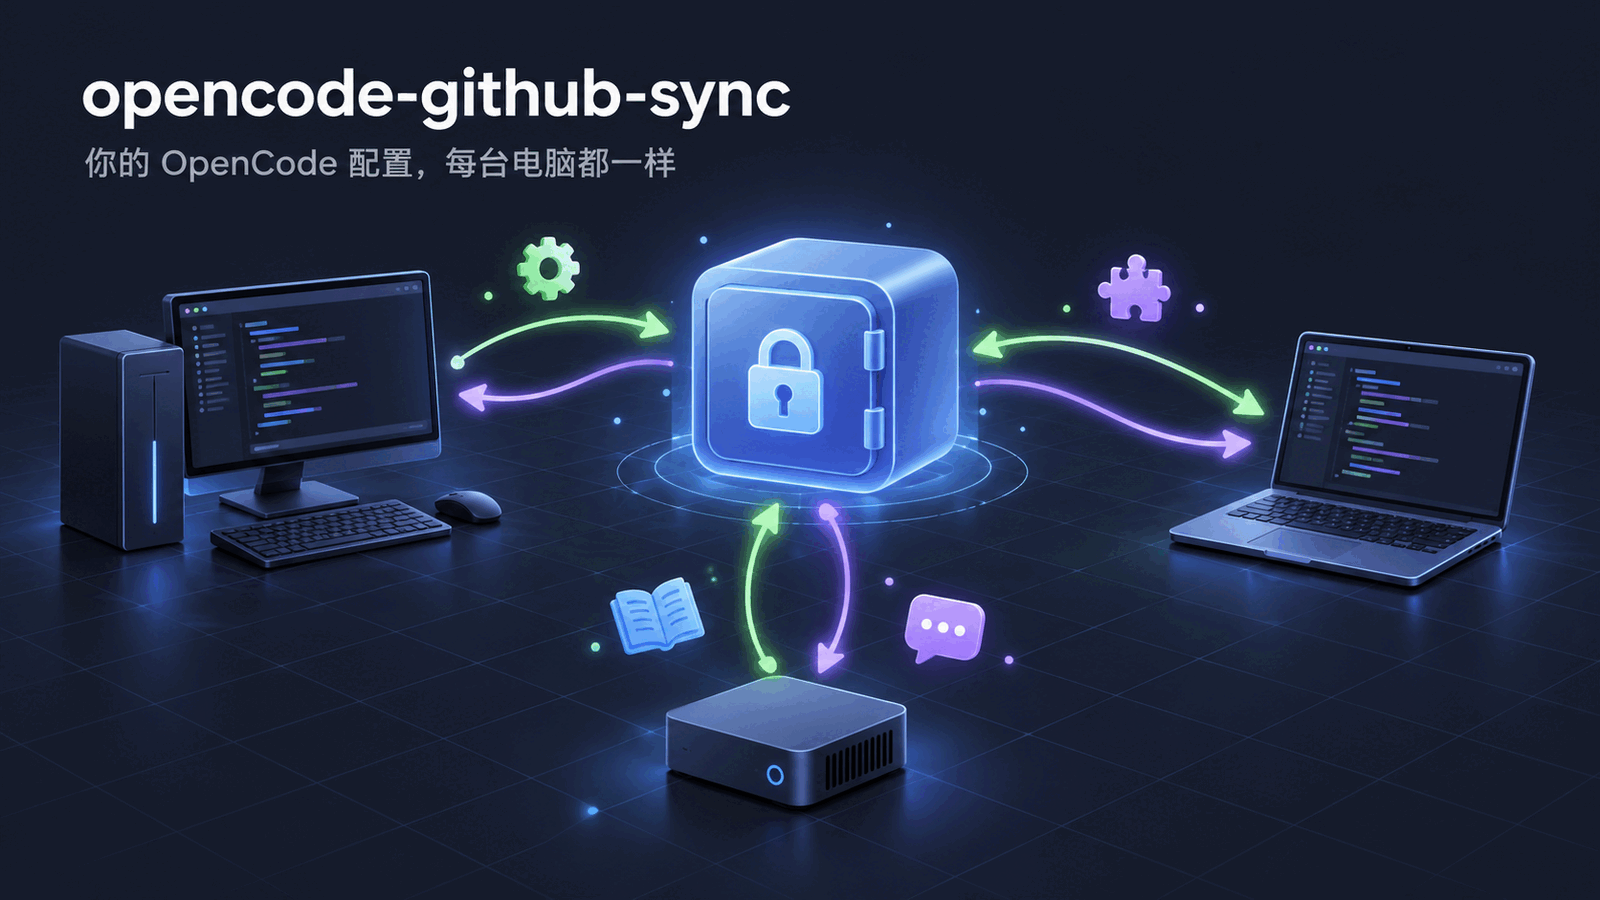
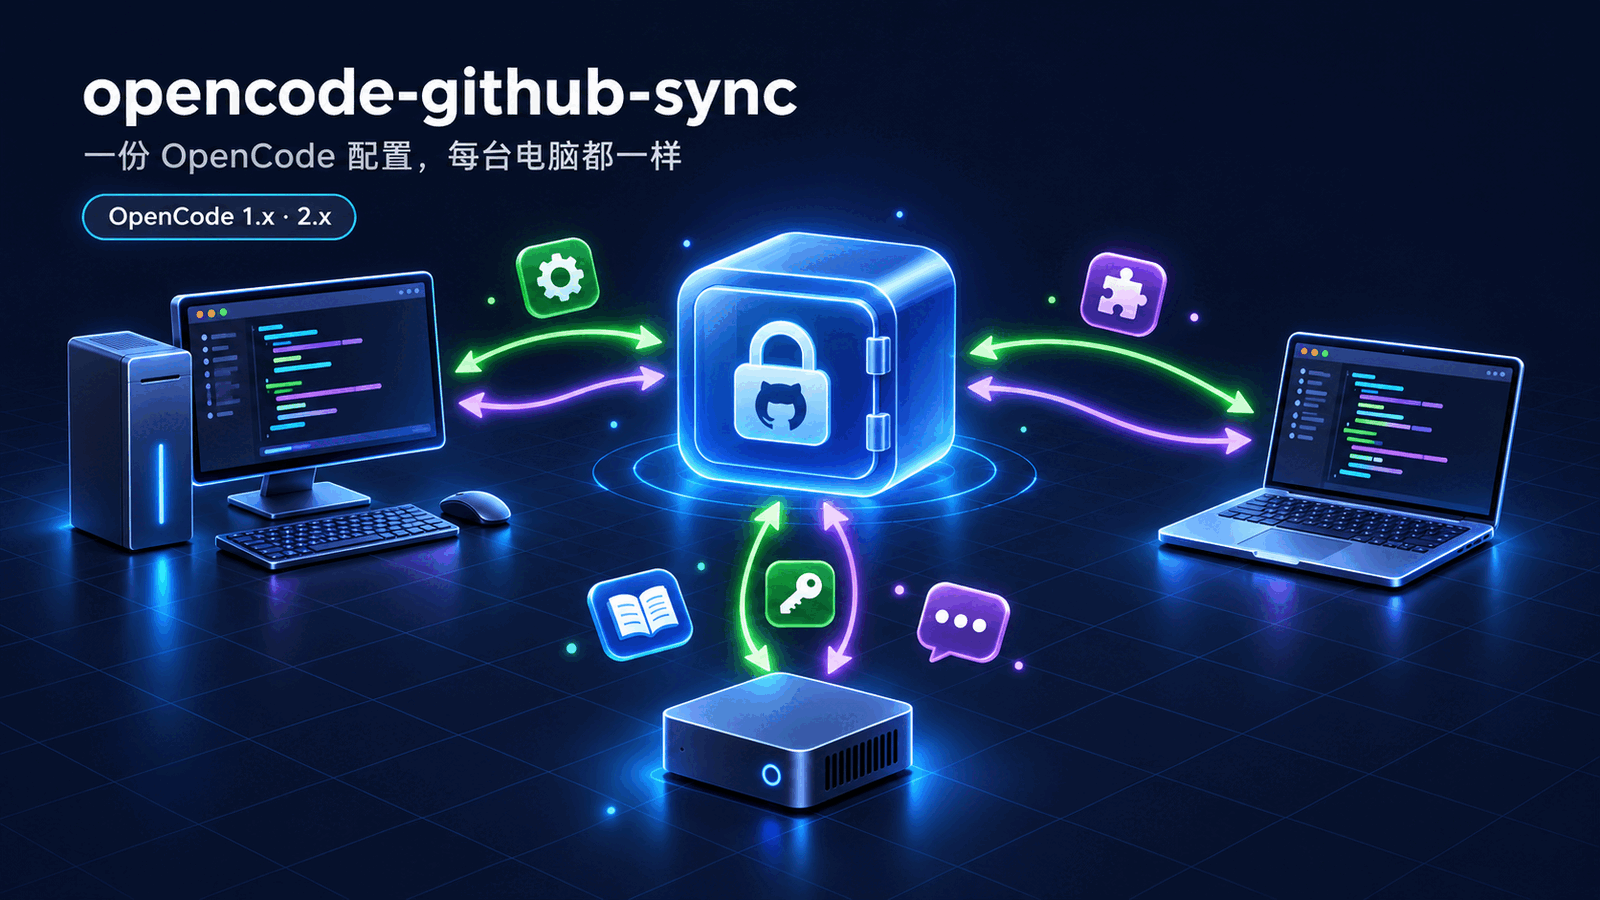
docs: redraw README images, separate language switcher from section links
All ten illustrations (en, zh-CN) redrawn with gpt-image 2.6: OpenCode 1.x/2.x badge on the hero, the what-gets-synced diagram now shows cli.json, opt-in sessions and credentials and what stays local, the autosync timeline shows the ChatGPT login renewal, the safety grid adds machine secrets. The language switcher gets its own line, as in OpenCode and LobeChat, with the section links below it.

Changed region(s): [[0.0, 0.2178, 0.9688, 0.9956], [0.0312, 0.0622, 0.5, 0.28], [0.2812, 0.7156, 0.3125, 0.7467]]

diff --git a/README.md b/README.md
@@ -11,9 +11,15 @@
 </p>
 
 <p align="center">
-  <a href="https://github.com/lazyalex616/opencode-github-sync/blob/main/README.zh-CN.md">简体中文</a>
-  &nbsp;·&nbsp;
+  <b>English</b> · <a href="./README.zh-CN.md">简体中文</a>
+</p>
+
+<p align="center">
   <a href="#install">Install</a>
+  &nbsp;·&nbsp;
+  <a href="#first-run">First run</a>
+  &nbsp;·&nbsp;
+  <a href="#what-gets-synced">What gets synced</a>
   &nbsp;·&nbsp;
   <a href="#opencode-2">OpenCode 2</a>
   &nbsp;·&nbsp;

diff --git a/README.zh-CN.md b/README.zh-CN.md
@@ -11,9 +11,15 @@
 </p>
 
 <p align="center">
-  <a href="https://github.com/lazyalex616/opencode-github-sync/blob/main/README.md">English</a>
-  &nbsp;·&nbsp;
+  <a href="./README.md">English</a> · <b>简体中文</b>
+</p>
+
+<p align="center">
   <a href="#安装">安装</a>
+  &nbsp;·&nbsp;
+  <a href="#第一次运行">第一次运行</a>
+  &nbsp;·&nbsp;
+  <a href="#同步哪些内容">同步哪些内容</a>
   &nbsp;·&nbsp;
   <a href="#opencode-2">OpenCode 2</a>
   &nbsp;·&nbsp;
